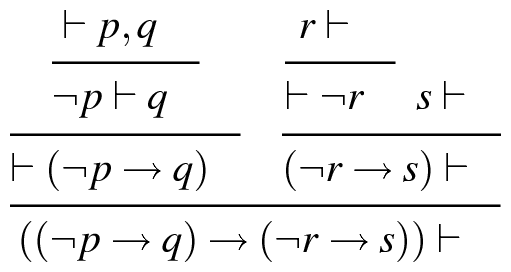
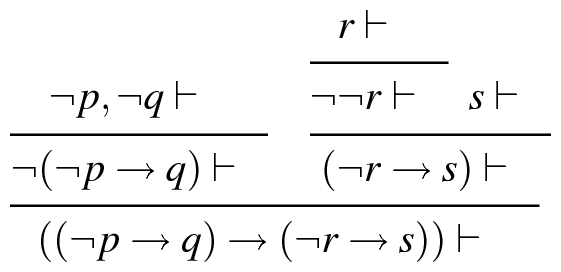
renamed:    graphviz_files/example.3.4.6.dnf.tableaux.dot -> graphviz_files/example.3.4.6.dot 	renamed:    graphviz_files/example.3.4.6.dnf.tableaux.png -> graphviz_files/example.3.4.6.png 	modified:   latex_files/example.3.4.6.png 	modified:   latex_files/example.3.4.6.tex 	new file:   latex_files/

diff --git a/latex_files/problem.3.4.2.a.tex b/latex_files/problem.3.4.2.a.tex
@@ -1,0 +1,52 @@
+\documentclass{article}
+\pagestyle{empty}
+\usepackage{prooftree}
+\usepackage{xspace,amssymb,amsfonts,amsmath,color}
+\usepackage{mathptmx}
+\begin{document}
+\begin{displaymath}
+\prooftree
+\prooftree
+\prooftree
+\prooftree
+\prooftree
+\prooftree
+\lnot a, a, \lnot b, \lnot c \vdash  \ \ \ 
+c, a, \lnot b, \lnot c \vdash  \ \ \ 
+\justifies
+a, \lnot b, \lnot c, (a \to c) \vdash  \ \ \ 
+\endprooftree
+\lnot b, \lnot c, b, (a \to c) \vdash  \ \ \ 
+\justifies
+\lnot b, \lnot c, (a \lor b), (a \to c) \vdash  \ \ \ 
+\endprooftree
+\prooftree
+\prooftree
+\lnot a, a, d, \lnot c \vdash  \ \ \ 
+c, a, d, \lnot c \vdash  \ \ \ 
+\justifies
+a, d, \lnot c, (a \to c) \vdash  \ \ \ 
+\endprooftree
+\prooftree
+\lnot a, b, d, \lnot c \vdash  \ \ \ 
+c, b, d, \lnot c \vdash  \ \ \ 
+\justifies
+b, d, \lnot c, (a \to c) \vdash  \ \ \ 
+\endprooftree
+\justifies
+d, \lnot c, (a \lor b), (a \to c) \vdash  \ \ \ 
+\endprooftree
+\justifies
+\lnot c, (b \to d), (a \to c), (a \lor b) \vdash  \ \ \ 
+\endprooftree
+\justifies
+\lnot ((a \lor b) \to c), (a \to c), (b \to d) \vdash  \ \ \ 
+\endprooftree
+\justifies
+\lnot ((b \to d) \to ((a \lor b) \to c)), (a \to c) \vdash  \ \ \ 
+\endprooftree
+\justifies
+\lnot ((a \to c) \to ((b \to d) \to ((a \lor b) \to c))) \vdash  \ \ \ 
+\endprooftree
+\end{displaymath}
+\end{document}

diff --git a/latex_files/problem.3.4.2.b.tex b/latex_files/problem.3.4.2.b.tex
@@ -1,0 +1,37 @@
+\documentclass{article}
+\pagestyle{empty}
+\usepackage{prooftree}
+\usepackage{xspace,amssymb,amsfonts,amsmath,color}
+\usepackage{mathptmx}
+\begin{document}
+\begin{displaymath}
+\prooftree
+\prooftree
+\prooftree
+\prooftree
+\prooftree
+\lnot a, a, \lnot b \vdash  \ \ \ 
+b, a, \lnot b \vdash  \ \ \ 
+\justifies
+a, \lnot b, (a \to b) \vdash  \ \ \ 
+\endprooftree
+\prooftree
+\lnot a, a, \lnot c \vdash  \ \ \ 
+b, a, \lnot c \vdash  \ \ \ 
+\justifies
+a, \lnot c, (a \to b) \vdash  \ \ \ 
+\endprooftree
+\justifies
+a, (b \to \lnot c), (a \to b) \vdash  \ \ \ 
+\endprooftree
+\justifies
+\lnot \lnot a, (a \to b), (b \to \lnot c) \vdash  \ \ \ 
+\endprooftree
+\justifies
+\lnot ((b \to \lnot c) \to \lnot a), (a \to b) \vdash  \ \ \ 
+\endprooftree
+\justifies
+\lnot ((a \to b) \to ((b \to \lnot c) \to \lnot a)) \vdash  \ \ \ 
+\endprooftree
+\end{displaymath}
+\end{document}

diff --git a/latex_files/example.3.4.6.tex b/latex_files/example.3.4.6.tex
@@ -7,19 +7,15 @@
 \begin{displaymath}
 \prooftree
 \prooftree
-\prooftree
- \vdash p, q \ \ \ 
+\lnot p, \lnot q \vdash  \ \ \ 
 \justifies
-\lnot p \vdash q \ \ \ 
-\endprooftree
-\justifies
- \vdash (\lnot p \to q) \ \ \ 
+\lnot (\lnot p \to q) \vdash  \ \ \ 
 \endprooftree
 \prooftree
 \prooftree
 r \vdash  \ \ \ 
 \justifies
- \vdash \lnot r \ \ \ 
+\lnot \lnot r \vdash  \ \ \ 
 \endprooftree
 s \vdash  \ \ \ 
 \justifies
